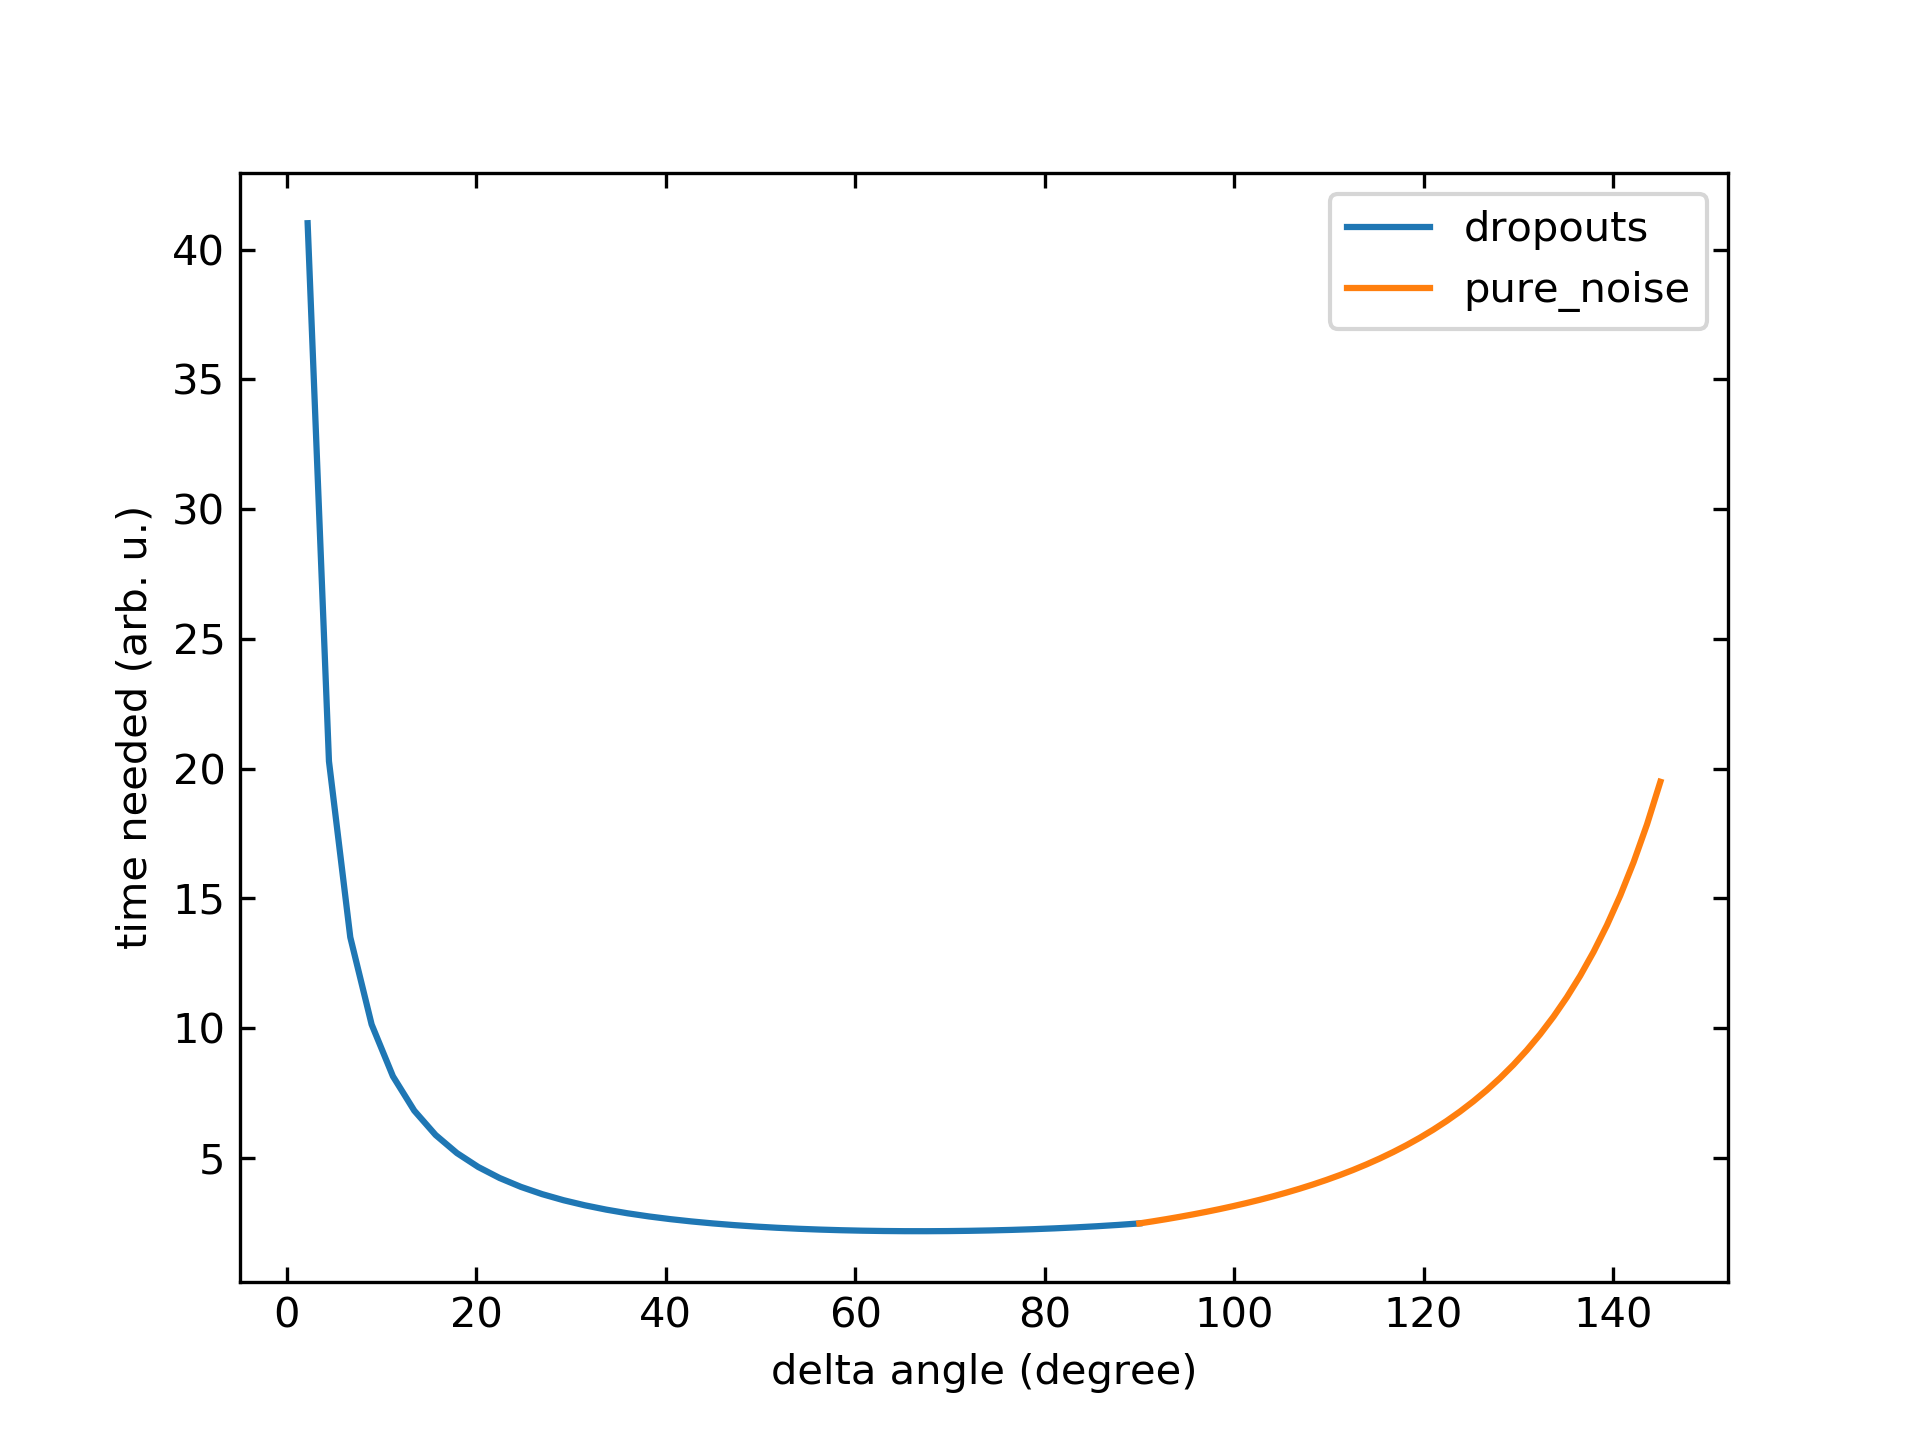
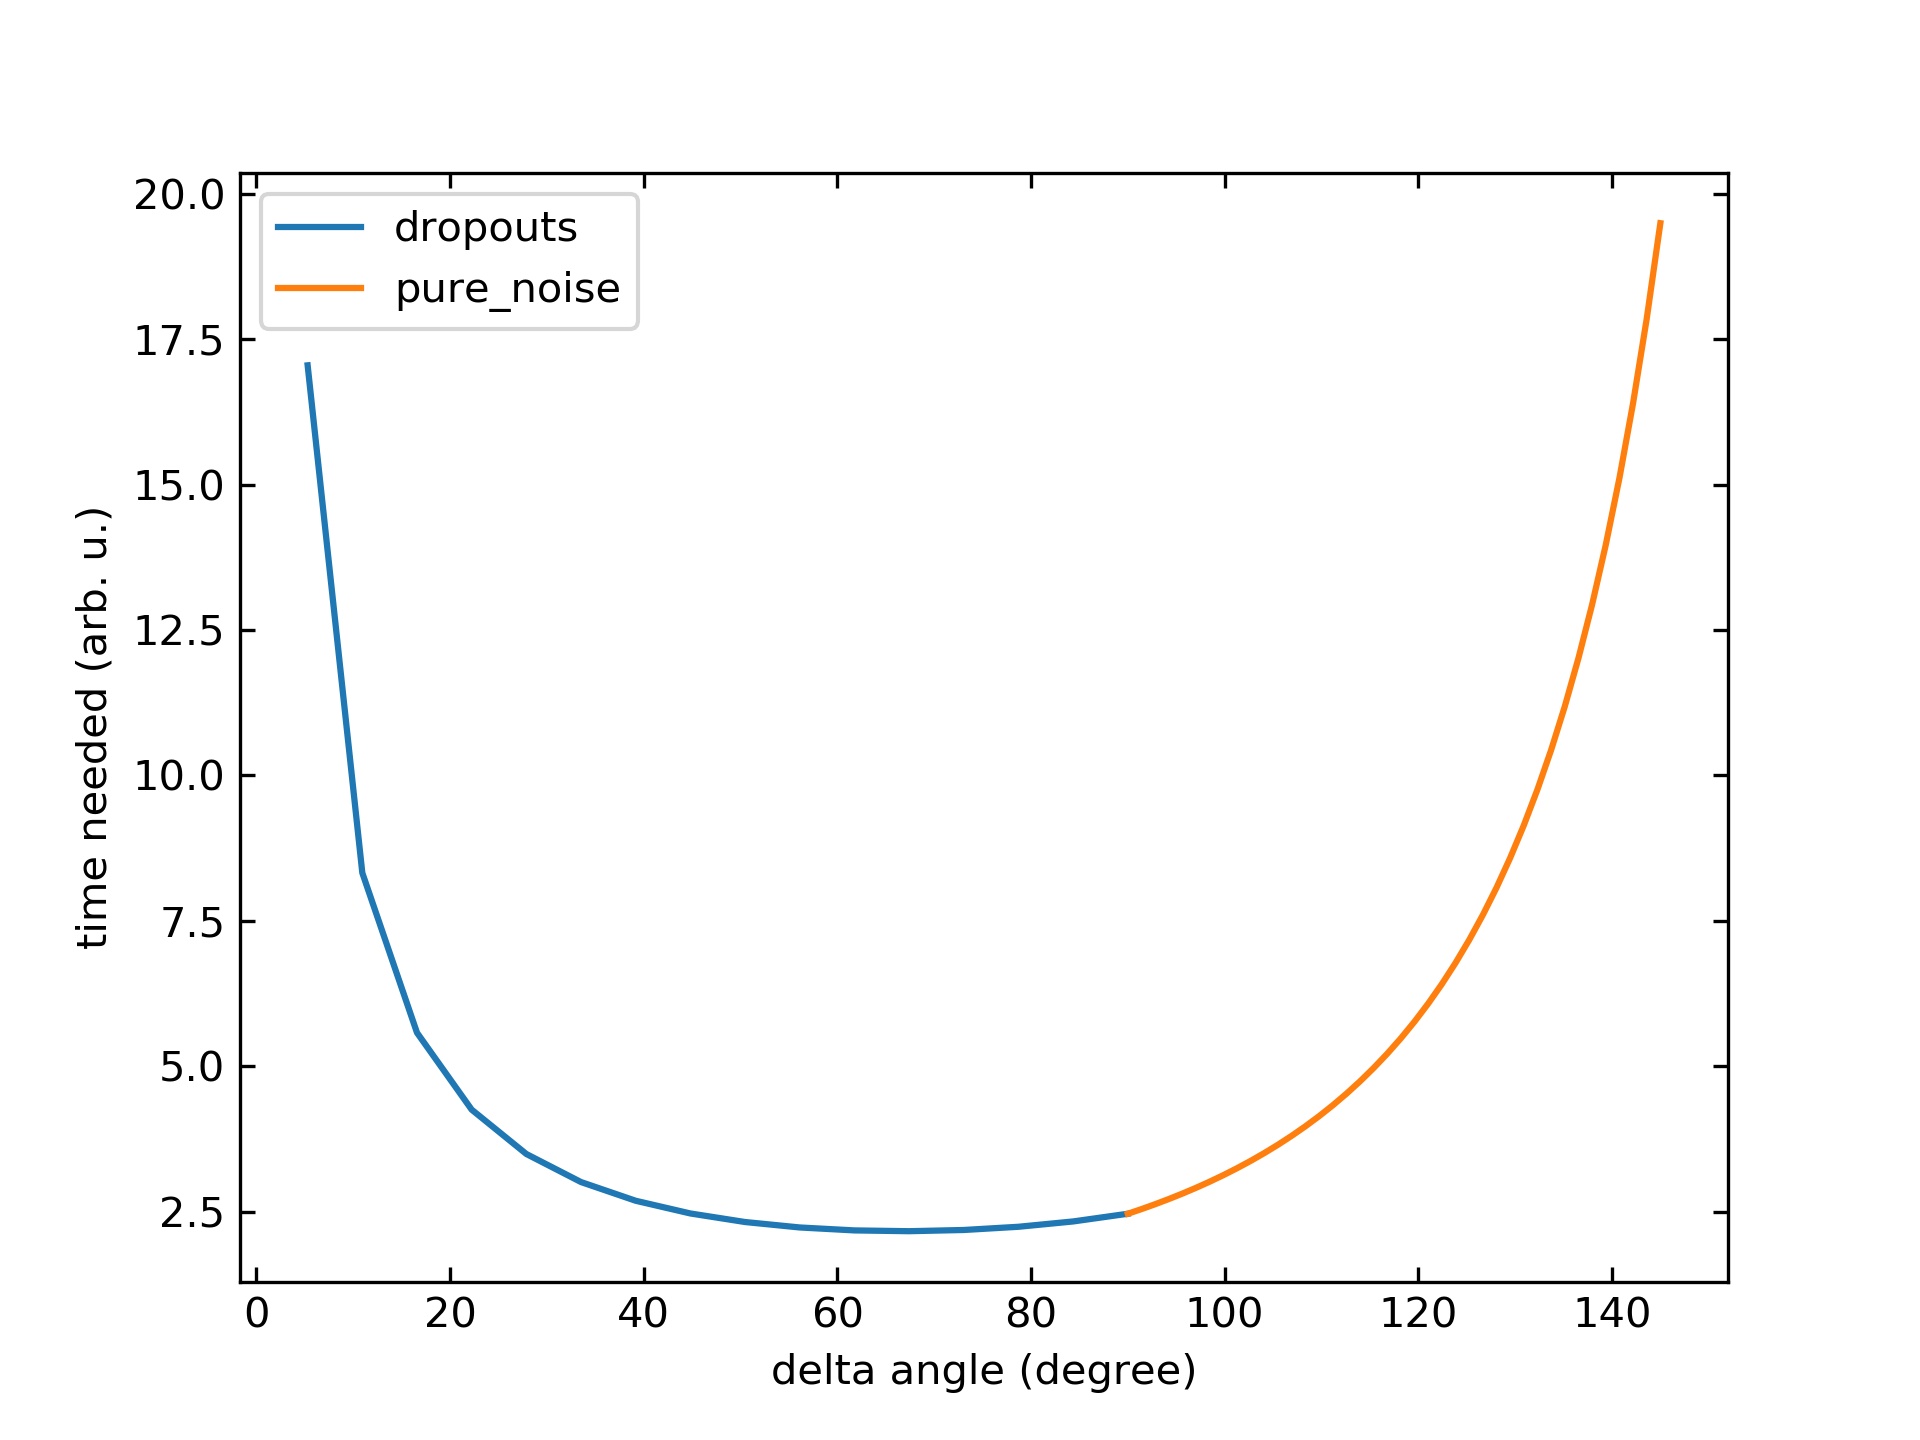
dropout_vs_sectors

diff --git a/Images/QuantumFeedForwardPaper/dropout_vs_noise/dropout_vs_noise_plotter.py b/Images/QuantumFeedForwardPaper/dropout_vs_noise/dropout_vs_noise_plotter.py
@@ -6,26 +6,59 @@ from matplotlib.colors import LogNorm
 class DropoutVsNoisePlotter:
     def __init__(self):
         self.n_noises = 40
-        self.n_dropouts = 40
+        self.n_dropouts = 16
         self.noise_angles = self.create_noise_angles()
-        self.dropouts = self.create_dropouts()
+        self.dropouts_linear = self.create_dropout_linearly_spaced()
+        self.dropout_non_linear = self.create_dropout_non_linearly_spaced()
         self.dropout_angles = self.create_dropout_angles()
+        self.sectors = self.create_sector_counts()
 
     def plot(self):
-        self.plot_1dgraph_time_needed()
+        self.plot_1d_graph_time_needed()
 
-        self.plot_2dimshow_noise_vs_dropout()
+        self.plot_2d_imshow_noise_vs_dropout()
 
-    def plot_2dimshow_noise_vs_dropout(self):
+        self.plot_2d_imshow_noise_vs_sectors()
+
+    def plot_2d_imshow_noise_vs_sectors(self):
         plt.clf()
         times_needed = np.zeros((self.n_noises, self.n_dropouts))
         for row in range(times_needed.shape[0]):
             for column in range(times_needed.shape[1]):
                 times_needed[row, column] = min(
-                    self.calc_time_needed_with_dropout(self.dropout_angles[column], self.dropouts[column]),
+                    self.calc_sensitivity_with_dropout(column),
+                    self.calc_sensitivity_without_dropout(row)
+                )
+        extent = [self.sectors[0], self.sectors[-1], self.noise_angles[0], self.noise_angles[-1]]
+        plt.imshow(times_needed / times_needed.max(), origin='lower', extent=extent, aspect='auto', norm=LogNorm(),
+                   interpolation='bilinear')
+        plt.xlabel('sectors')
+        plt.ylabel('delta angle of pure noise (degree)')
+        colorbar = plt.colorbar()
+        colorbar.set_label('sensitivity (arb. u.)')
+        plt.savefig('noise_vs_sectors.png', dpi=300)
+
+    def calc_sensitivity_without_dropout(self, row):
+        average = self.average_signal(self.noise_angles[row])
+        time_needed = np.power(1 / average, 2)
+        return np.sqrt(time_needed)
+
+    def calc_sensitivity_with_dropout(self, column):
+        average = self.average_signal(self.dropout_angles[column])
+        usable_percentage = 1 - self.dropout_non_linear[::-1][column]
+        time_needed = np.sqrt(np.power(1 / average, 2) * np.power(1 / usable_percentage, 1))
+        return np.sqrt(time_needed)
+
+    def plot_2d_imshow_noise_vs_dropout(self):
+        plt.clf()
+        times_needed = np.zeros((self.n_noises, self.n_dropouts))
+        for row in range(times_needed.shape[0]):
+            for column in range(times_needed.shape[1]):
+                times_needed[row, column] = min(
+                    self.calc_time_needed_with_dropout(self.dropout_angles[column], self.dropouts_linear[column]),
                     self.calc_time_needed_without_dropout(self.noise_angles[row])
                 )
-        extent = [self.dropouts[0], self.dropouts[-1], self.noise_angles[0], self.noise_angles[-1]]
+        extent = [self.dropouts_linear[0], self.dropouts_linear[-1], self.noise_angles[0], self.noise_angles[-1]]
         plt.imshow(times_needed, origin='lower', extent=extent, aspect='auto', norm=LogNorm(), interpolation='bilinear')
         plt.xlabel('dropout percentage')
         plt.ylabel('delta angle of pure noise (degree)')
@@ -33,11 +66,11 @@ class DropoutVsNoisePlotter:
         colorbar.set_label('time needed (arb. u.)')
         plt.savefig('noise_vs_dropout.png', dpi=300)
 
-    def plot_1dgraph_time_needed(self):
+    def plot_1d_graph_time_needed(self):
         plt.clf()
         dropout_times = np.zeros(self.n_dropouts)
         for i in range(dropout_times.shape[0]):
-            dropout_times[i] = self.calc_time_needed_with_dropout(self.dropout_angles[i], self.dropouts[i])
+            dropout_times[i] = self.calc_time_needed_with_dropout(self.dropout_angles[i], self.dropouts_linear[i])
         plt.plot(self.dropout_angles, dropout_times, label='dropouts')
         noise_times = np.zeros(self.noise_angles.shape[0])
         for i, angle in enumerate(self.noise_angles):
@@ -63,15 +96,20 @@ class DropoutVsNoisePlotter:
     def create_noise_angles(self):
         return np.linspace(90, 145, self.n_noises)
 
-    def create_dropouts(self):
-        # return np.array([1 - 1 / n for n in range(1, self.n_dropouts + 1)])[::-1]  # non-linear spaced dropouts
+    def create_dropout_linearly_spaced(self):
         return np.linspace(0, 1 - 1 / (self.n_dropouts + 1), self.n_dropouts)[::-1]  # linear spaced dropouts
 
+    def create_dropout_non_linearly_spaced(self):
+        return np.array([1 - 1 / n for n in range(1, self.n_dropouts + 1)])[::-1]  # non-linear spaced dropouts
+
     def create_dropout_angles(self):
-        return 90 * (1 - self.dropouts)
+        return 90 * (1 - self.dropouts_linear)
 
     def calc_time_needed_without_dropout(self, delta_angle):
         return self.calc_time_needed_with_dropout(delta_angle, 0)
+
+    def create_sector_counts(self):
+        return np.array([2 * n for n in range(1, self.n_dropouts + 1)])
 
 
 if __name__ == '__main__':
